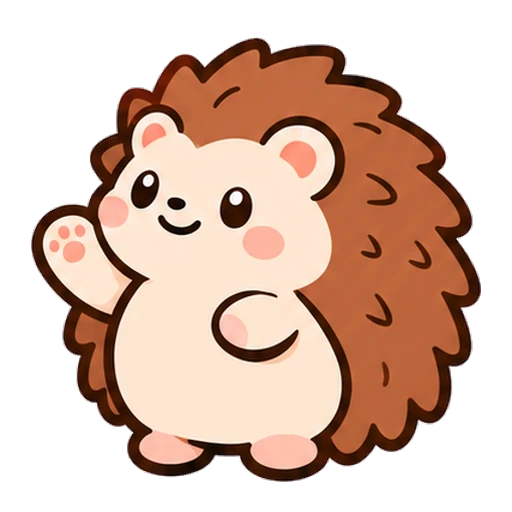
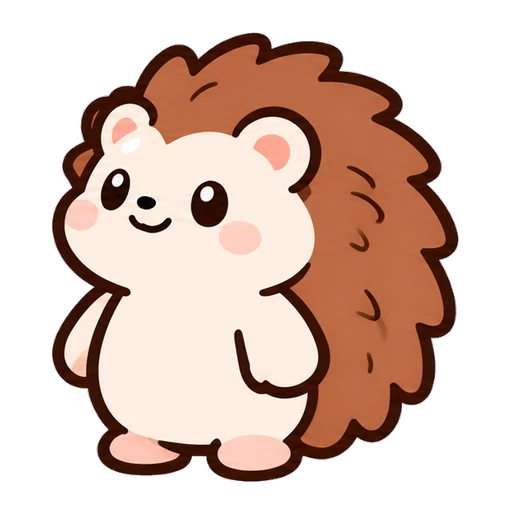
1.0.17 피드백 3차: 고슴도치 자세 4종, 패스 가치 배너 · 혜택 칸, 행운 별 조각 제거, 친구 힌트 문구, 팝업 X 여백
Claude-Session: https://claude.ai/code/session_011jC4ZDqrEaYqEhudpbFCaM

Changed region(s): [[0.0625, 0.0625, 0.9375, 0.9688], [0.6875, 0.5625, 0.7812, 0.6562]]

diff --git a/lib/ui/sheets.dart b/lib/ui/sheets.dart
@@ -3583,101 +3583,202 @@ Future<void> showPassSheet(
         const SizedBox(height: 10),
         IconText(tr('pass.total'), style: const TextStyle(fontSize: 17)),
         const SizedBox(height: 4),
-        IconText(
-          tr('pass.totalBody', {
-            'ads': game.passAdsSkipped,
-            'gems': game.passGemsGiven,
-          }),
-          style: const TextStyle(fontSize: 15, color: Color(0xFF6B5A44)),
-        ),
+        const SizedBox(height: 2),
+        PassTotals(game: game),
       ],
     ),
   );
 });
 
-/// 정원 패스 가치표 (D-081): 광고 없이 바로 받는 보상 · 매일 다이아를 다이아 값으로 30일 합산.
+/// 정원 패스 가치표 (D-081): 광고처럼 한눈에. 큰 배율 + 작은 칸 4개 + 한 줄 각주.
 class PassValueTable extends StatelessWidget {
   const PassValueTable({super.key});
 
+  static String _comma(int n) => n.toString().replaceAllMapped(
+    RegExp(r'\B(?=(\d{3})+(?!\d))'),
+    (_) => ',',
+  );
+
   @override
   Widget build(BuildContext context) {
-    const ink = Color(0xFF5E4B36);
-    Widget line(String icon, String label, int g, {bool bold = false}) =>
-        Padding(
-          padding: const EdgeInsets.symmetric(vertical: 4),
-          child: Row(
-            children: [
-              ArtImage(IconText.resolve(icon), size: 26),
-              const SizedBox(width: 8),
-              Expanded(
-                child: IconText(
-                  label,
-                  style: const TextStyle(fontSize: 15, color: ink),
-                ),
-              ),
-              IconText(
-                tr('pass.value.perDay', {'g': g}),
-                style: const TextStyle(fontSize: 15, color: ink),
-              ),
-            ],
+    const brown = Color(0xFF7A5230);
+    const outline = [
+      Shadow(color: brown, offset: Offset(2, 0)),
+      Shadow(color: brown, offset: Offset(-2, 0)),
+      Shadow(color: brown, offset: Offset(0, 2)),
+      Shadow(color: brown, offset: Offset(0, -2)),
+    ];
+    final tiles = [
+      for (final (k, n, g) in PassValue.perDay())
+        (
+          switch (k) {
+            AdKind.energy => 'energy',
+            AdKind.boost => 'boost',
+            _ => 'diamond',
+          },
+          tr(
+            switch (k) {
+              AdKind.energy => 'pass.value.energy',
+              AdKind.boost => 'pass.value.boost',
+              _ => 'pass.value.gems',
+            },
+            {'n': n},
           ),
-        );
-    final rows = PassValue.perDay();
-    final pack = Gems.packs.firstWhere((p) => p.id == 'gems_430');
-    return Container(
-      padding: const EdgeInsets.fromLTRB(12, 8, 12, 10),
-      decoration: BoxDecoration(
-        color: Colors.white,
-        borderRadius: BorderRadius.circular(12),
-        border: Border.all(color: const Color(0xFFE2D3B5), width: 1.5),
-      ),
-      child: Column(
-        crossAxisAlignment: CrossAxisAlignment.stretch,
-        children: [
-          for (final (k, n, g) in rows)
-            line(
-              switch (k) {
-                AdKind.energy => 'energy',
-                AdKind.boost => 'boost',
-                _ => 'diamond',
-              },
-              tr(
-                switch (k) {
-                  AdKind.energy => 'pass.value.energy',
-                  AdKind.boost => 'pass.value.boost',
-                  _ => 'pass.value.gems',
-                },
-                {'n': n},
+          g,
+        ),
+      ('diamond', tr('pass.value.daily'), PassValue.dailyGems),
+    ];
+    Widget tile((String, String, int) t) => Expanded(
+      child: Container(
+        margin: const EdgeInsets.symmetric(horizontal: 3),
+        padding: const EdgeInsets.fromLTRB(4, 8, 4, 8),
+        decoration: BoxDecoration(
+          color: Colors.white,
+          borderRadius: BorderRadius.circular(12),
+          border: Border.all(color: const Color(0xFFE2D3B5), width: 1.5),
+        ),
+        child: Column(
+          children: [
+            ArtImage(IconText.resolve(t.$1), size: 30),
+            const SizedBox(height: 2),
+            IconText(
+              t.$2,
+              textAlign: TextAlign.center,
+              maxLines: 2,
+              style: const TextStyle(
+                fontSize: 11.5,
+                height: 1.15,
+                color: Color(0xFF6B5A44),
               ),
-              g,
             ),
-          line('diamond', tr('pass.value.daily'), PassValue.dailyGems),
-          const Divider(height: 14, color: Color(0xFFE2D3B5)),
-          IconText(
-            tr('pass.value.sum', {
-              'day': PassValue.perDayTotal,
-              'month': PassValue.monthTotal.toString().replaceAllMapped(
-                RegExp(r'\B(?=(\d{3})+(?!\d))'),
-                (_) => ',',
-              ),
-            }),
-            textAlign: TextAlign.center,
-            style: const TextStyle(fontSize: 16, color: Palette.primary),
-          ),
-          const SizedBox(height: 2),
-          IconText(
-            tr('pass.value.cmp', {'pack': pack.gems, 'x': PassValue.timesPack}),
-            textAlign: TextAlign.center,
-            style: const TextStyle(fontSize: 15, color: ink),
-          ),
-          const SizedBox(height: 6),
-          IconText(
-            tr('pass.value.note'),
-            textAlign: TextAlign.center,
-            style: const TextStyle(fontSize: 12.5, color: Color(0xFF8A7A63)),
-          ),
-        ],
+            const SizedBox(height: 2),
+            IconText(
+              '[[diamond]]${t.$3}',
+              style: const TextStyle(fontSize: 15, color: Palette.primary),
+            ),
+          ],
+        ),
       ),
+    );
+    return Column(
+      crossAxisAlignment: CrossAxisAlignment.stretch,
+      children: [
+        // 큰 배율 배너
+        Container(
+          padding: const EdgeInsets.fromLTRB(12, 10, 12, 12),
+          decoration: BoxDecoration(
+            gradient: const LinearGradient(
+              begin: Alignment.topCenter,
+              end: Alignment.bottomCenter,
+              colors: [Color(0xFFFFE58A), Color(0xFFFFC94A)],
+            ),
+            borderRadius: BorderRadius.circular(16),
+            border: Border.all(color: brown, width: 2),
+          ),
+          child: Shine(
+            child: Column(
+              children: [
+                IconText(
+                  tr('pass.value.hero1'),
+                  textAlign: TextAlign.center,
+                  style: const TextStyle(fontSize: 14, color: brown),
+                ),
+                Text(
+                  tr('pass.value.hero2', {'x': PassValue.timesPack}),
+                  textAlign: TextAlign.center,
+                  style: const TextStyle(
+                    fontSize: 34,
+                    height: 1.15,
+                    color: Colors.white,
+                    shadows: outline,
+                  ),
+                ),
+                const SizedBox(height: 4),
+                Container(
+                  padding: const EdgeInsets.symmetric(
+                    horizontal: 12,
+                    vertical: 3,
+                  ),
+                  decoration: BoxDecoration(
+                    color: const Color(0xFFFFFBF0),
+                    borderRadius: BorderRadius.circular(20),
+                    border: Border.all(color: brown, width: 1.5),
+                  ),
+                  child: IconText(
+                    tr('pass.value.month', {
+                      'month': _comma(PassValue.monthTotal),
+                    }),
+                    style: const TextStyle(fontSize: 15, color: brown),
+                  ),
+                ),
+              ],
+            ),
+          ),
+        ),
+        const SizedBox(height: 8),
+        Row(
+          crossAxisAlignment: CrossAxisAlignment.start,
+          children: [for (final t in tiles) tile(t)],
+        ),
+        const SizedBox(height: 4),
+        IconText(
+          tr('pass.value.note'),
+          textAlign: TextAlign.center,
+          style: const TextStyle(fontSize: 11, color: Color(0xFF9A8A73)),
+        ),
+      ],
+    );
+  }
+}
+
+/// 정원 패스: 지금까지 받은 혜택 (D-081). 숫자 칸 3개.
+class PassTotals extends StatelessWidget {
+  const PassTotals({super.key, required this.game});
+  final GameState game;
+
+  @override
+  Widget build(BuildContext context) {
+    Widget tile(String icon, String label, String value) => Expanded(
+      child: Container(
+        margin: const EdgeInsets.symmetric(horizontal: 3),
+        padding: const EdgeInsets.symmetric(vertical: 10),
+        decoration: BoxDecoration(
+          color: Colors.white,
+          borderRadius: BorderRadius.circular(12),
+          border: Border.all(color: const Color(0xFFE2D3B5), width: 1.5),
+        ),
+        child: Column(
+          children: [
+            ArtImage(IconText.resolve(icon), size: 30),
+            const SizedBox(height: 4),
+            Text(
+              value,
+              style: const TextStyle(fontSize: 20, color: Palette.primary),
+            ),
+            IconText(
+              label,
+              textAlign: TextAlign.center,
+              style: const TextStyle(fontSize: 12, color: Color(0xFF6B5A44)),
+            ),
+          ],
+        ),
+      ),
+    );
+    final ads = game.passAdsSkipped;
+    return Row(
+      children: [
+        tile('ad', tr('pass.total.ads'), tr('pass.total.n', {'n': ads})),
+        tile(
+          'diamond',
+          tr('pass.total.gems'),
+          PassValueTable._comma(game.passGemsGiven),
+        ),
+        tile(
+          'timer',
+          tr('pass.total.time'),
+          tr('pass.total.min', {'n': (ads * 30 / 60).round()}),
+        ),
+      ],
     );
   }
 }

diff --git a/lib/ui/widgets/frame_box.dart b/lib/ui/widgets/frame_box.dart
@@ -95,7 +95,13 @@ class GameDialog extends StatelessWidget {
         borderRadius: BorderRadius.circular(28),
       ),
       corner: 30,
-      padding: EdgeInsets.fromLTRB(24, hasRibbon ? 40 : 22, 24, 20),
+      // X 버튼 자리만큼 위를 띄운다 (첫 줄과 겹치지 않게)
+      padding: EdgeInsets.fromLTRB(
+        24,
+        (hasRibbon ? 40 : 22) + (onClose != null ? 26 : 0),
+        24,
+        20,
+      ),
       child: Column(
         mainAxisSize: MainAxisSize.min,
         crossAxisAlignment: CrossAxisAlignment.stretch,
@@ -136,7 +142,7 @@ class GameDialog extends StatelessWidget {
               Positioned(
                 // 테두리 안쪽 오른쪽 위 (밖으로 튀어나가지 않게)
                 right: 10,
-                top: hasRibbon ? 34 : 10,
+                top: hasRibbon ? 30 : 10,
                 child: GestureDetector(
                   onTap: onClose,
                   child: Art.icon('close').available

diff --git a/lib/ui/board/board_view.dart b/lib/ui/board/board_view.dart
@@ -583,18 +583,6 @@ class _LuckyFx extends StatelessWidget {
         clipBehavior: Clip.none,
         alignment: Alignment.center,
         children: [
-          // 금빛 별 조각이 빙 둘러 튄다
-          for (var i = 0; i < 8; i++)
-            Transform.translate(
-              offset: Offset.fromDirection(
-                -pi / 2 + 2 * pi * i / 8,
-                size * (0.3 + 0.45 * Curves.easeOutCubic.transform(v)),
-              ),
-              child: Opacity(
-                opacity: (1 - v).clamp(0.0, 1.0),
-                child: ArtImage(Art.icon('sparkle'), size: size * 0.22),
-              ),
-            ),
           Opacity(
             opacity: (1 - v * v).clamp(0.0, 1.0),
             child: Container(

diff --git a/docs/BIBLE.md b/docs/BIBLE.md
@@ -343,7 +343,7 @@
 | D-056 | 11-23 | 시즌 스토어 자동화 (정식 출시 뒤 켬): 시즌 시작 사흘 전 그래픽 이미지 + 휴대전화 스크린샷([시즌 표지] + 기존 1~7)을 언어별로 교체 (Actions → Store season, `docs/store/season/AUTO`). 나중 확장 후보: 스크린샷 2~7의 친구 일러스트 · 게임 화면도 시즌 의상 · 장식으로 다시 찍기(웹 미리보기 자동 촬영), 스토어 아이콘(512)은 API로 시즌판 교체 가능하나 폰 홈 화면 아이콘은 앱 업데이트로만 바뀜 → 시즌 콘텐츠 업데이트와 같이 (분기마다 그래픽 · 스크린샷 · 스토어 아이콘 · 홈 아이콘 · 게임 시즌 장식 · 새 구역을 한 번에). 시즌 앱 아이콘 4종 발주: 지금 아이콘의 자세 · 구도 · 배경 · 튤립은 그대로, 민트 옷만 그 시즌 의상으로 (발주서 app_icon_<시즌>, 참고 이미지 = 지금 아이콘 + 민트 시즌 의상) · 시즌 아이콘 4종 받음 (docs/store/season/<시즌>/app_icon.png · icon_512.png, 들고 있는 것도 시즌별: 튤립 · 해바라기 · 코스모스 · 생강쿠키). 스토어 아이콘은 Store season 워크플로가 함께 교체, 홈 화면 아이콘은 `tool/launcher_icon.py <시즌>` 으로 바꿔 앱 업데이트에 싣는다 (1.0.9 = 겨울) | 🟡 나중 |
 | D-079 | 11-26 | 시작 화면 계절 꾸밈 (사용자 요청): 로고 아래 시즌 부제: 이름 칸(capsule) 그림을 계절 색으로 물들인 알약(capsule_spring 등, 테두리 · 광택 유지) + 앞머리 크림 동그라미 속 계절 그림(벚꽃잎 · 반짝 · 단풍 · 눈송이, 갈색 외곽선 *_badge) + 흰 글자, 높이 44 · 글자 묶음 가운데 정렬, 4개 언어 '벚꽃 피는 봄 정원' 등, 친구 5명은 계절마다 다른 조합 · 다른 자세(기쁨 · 인사 · 기본) · 계절 의상(봄 소풍 · 여름 · 가을 · 겨울). 자리 · 앞뒤 순서는 그대로, 민트는 늘 가운데 (docs/share/title_seasons_ko.png) | ✅ |
 | D-080 | 11-26 | 사용자 피드백 12건 (1.0.17): 합치기 탄력(눌렸다 튀는 420ms) + 단계별 반짝 입자, 행운 바구니(+1단계) 금빛 빛무리 + '+1', 재화 소비 시 '-☆5' 떠오르며 사라짐 + 작은 소리, 고슴도치 손님은 12~28분마다 랜덤 등장 · 60초 동안 정원 걷는 구역 안을 천천히 돌아다니다(멈춰 두리번 1.5~4초) 떠날 때 오른쪽으로 나감 · 걷는 방향 보기. 재화 쓰는 창은 머리글 왼쪽 + 오른쪽 재화 알약 고정(꾸미기는 완성 수 + 별, 상점은 코인 + 다이아), 빨간 점 · 상점 꼬리표 주기적 반짝(점 오른쪽 위, 꼬리표 왼쪽 위 · 종류별 색), 정원 패스 '₩5,900/월' · 꼬리표 '다이아 300+' · 에너지 최대 +50, 친구 선물 코인 = 시간당 수입의 25~50%, 코인 누르면 수입 계산 창, 레벨 창에 다음 보상 · 해금, 도감에 옷장 버튼 · 의상 '판매 중' 꼬리표 · 아이템/계절 상세 창, 꾸미기 'OOO 등장!' 한 줄, 알림 테스트 · 성장 기록 제거 | ✅ |
-| D-081 | 11-26 | D-080 수정 (사용자 피드백): 합치기는 물결 빼고 '또이잉' 젤리 탄력(바닥 고정, 납작↔길쭉 2~3번 출렁 700ms) + 작은 별 조각만. 행운 바구니(+1단계)는 바구니에서 나온 그 아이템 칸에 금빛 빛무리 · 별 조각 8개 · '행운 +1'. 소비 표시는 크림 알약[재화 그림 -쓴 양]이 통 튀어나와 떠오름. 정원 패스 가치표: 광고 없이 바로 받는 보상을 게임 안 다이아 값(에너지 = 다이아 충전, 부스트 = 다이아 코인 2배)으로 바꿔 하루 최대 139 × 30일 = 4,170, 같은 값 팩(430)의 9배 → 꼬리표 '최대 9배 가치' + '가치 계산 보기'. 고슴도치 손님 자세 4종(기본 · 걷기 · 기쁨 · 인사) 발주, 걸을 땐 걷기 · 처음 멈출 땐 인사 · 가끔 기쁨. 도감 아이템 120종마다 세계관 한 줄(lore.*), 팝업 X 버튼은 테두리 안쪽 | ✅ |
+| D-081 | 11-26 | D-080 수정 (사용자 피드백): 합치기는 물결 빼고 '또이잉' 젤리 탄력(바닥 고정, 납작↔길쭉 2~3번 출렁 700ms) + 작은 별 조각만. 행운 바구니(+1단계)는 바구니에서 나온 그 아이템 칸에 금빛 빛무리 · '행운 +1' (별 조각 퍼짐은 뺌). 소비 표시는 크림 알약[재화 그림 -쓴 양]이 통 튀어나와 떠오름. 정원 패스 가치표: 광고 없이 바로 받는 보상을 게임 안 다이아 값(에너지 = 다이아 충전, 부스트 = 다이아 코인 2배)으로 바꿔 하루 최대 139 × 30일 = 4,170, 같은 값 팩(430)의 9배 → 꼬리표 '최대 9배 가치' + 광고형 배너('9배 효율!' · 30일 최대 4,170 · 칸 4개 · 각주 한 줄), 받은 혜택은 숫자 칸 3개(건너뛴 광고 · 받은 다이아 · 아낀 시간). 고슴도치 손님 자세 4종(기본 · 걷기 · 기쁨 · 인사) 입고, 걸을 땐 걷기 · 처음 멈출 땐 인사 · 가끔 기쁨. 도감 아이템 120종마다 세계관 한 줄(lore.*, 캐모마일 · 루이보스 등 나중 친구 힌트 포함), 팝업 X 버튼은 테두리 안쪽 + 내용은 X 높이만큼 아래로 | ✅ |
 | D-078 | 11-26 | 계절 시작 화면 (1.0.17): 발주는 배경 4장만(아트 발주서 '시작 화면' 탭). 친구 · 로고는 지금 것, 덤불은 이미 있는 계절 덤불 띠(docs/store/season/fg/{season}.webp, 스토어 그래픽에 쓰는 것)를 조립. 계절 판정은 게임 계절 장식과 같은 달 기준(12~2 겨울 · 3~5 봄 · 6~8 여름 · 9~11 가을), 로그인 화면도 같이. 덤불 띠는 폭 1080에 맞추고 아래만 잘라 430 높이 (assets/art/title/bg_* · fg_*), 그림이 없으면 예전 bg/fg (docs/share/title_seasons_ko.png) | ✅ |
 | D-077 | 11-25 | ① 빨간 점을 붙인 카드가 줄어들던 문제: 점을 얹는 Stack 이 카드에 느슨한 폭을 넘겨 카드가 내용 폭으로 줄고 점만 오른쪽 끝에 따로 섰다 → StackFit.passthrough (디자인 카드 · 상점 광고 다이아 줄) ② 크게 보기 위 줄: '<' 버튼과 구역 이름 칸이 겹침 → 사이 간격 6, 이름 칸은 남은 폭 안에서 잘라 그림 ③ 휴대폰 글자 크기는 1.15배까지만 반영 (아주 크게 하면 화면이 겹쳐서) ④ 친구 잡담 말풍선은 창 테두리에서 16 안쪽까지만 ⑤ 구역 이름 칸(capsule) 그림의 왼쪽 끝이 그림 경계에 잘려 있었음 → 왼쪽 여백을 늘리고 오른쪽 끝을 뒤집어 테두리 복원, 시트 틀(panel) 그림도 오른쪽 테두리가 잘려 7px(왼쪽 13px) → 같은 두께로 복원. 모든 frames 그림을 좌우 · 위아래 여백 대칭 검사(장식 · 리본처럼 일부러 비대칭인 것 빼고 문제 없음) (docs/share/fix_dot_header_ko.png) | ✅ |
 | D-076 | 11-25 | 합치기 효과음 6계층 (30단계에 맞게, 사용자 요청): 2~5 기본 merge · 6~10 merge_t2(종 1음) · 11~15 t3(2음) · 16~20 t4(3음) · 21~25 t5(4음) · 26~ t6(merge_big 을 낮추고 부드럽게). 최고 단계 합치기(코인)만 merge_big. 예전엔 6단계부터 merge_big 이라 너무 요란. 사용자 요청으로 차분하게: 종소리는 낮은 음역(C5~C6) · 작은 음량 · 느린 감쇠 · 고음 깎음, 최대 음량은 모두 기본 합치기 소리 수준(−16dB) | ✅ |
